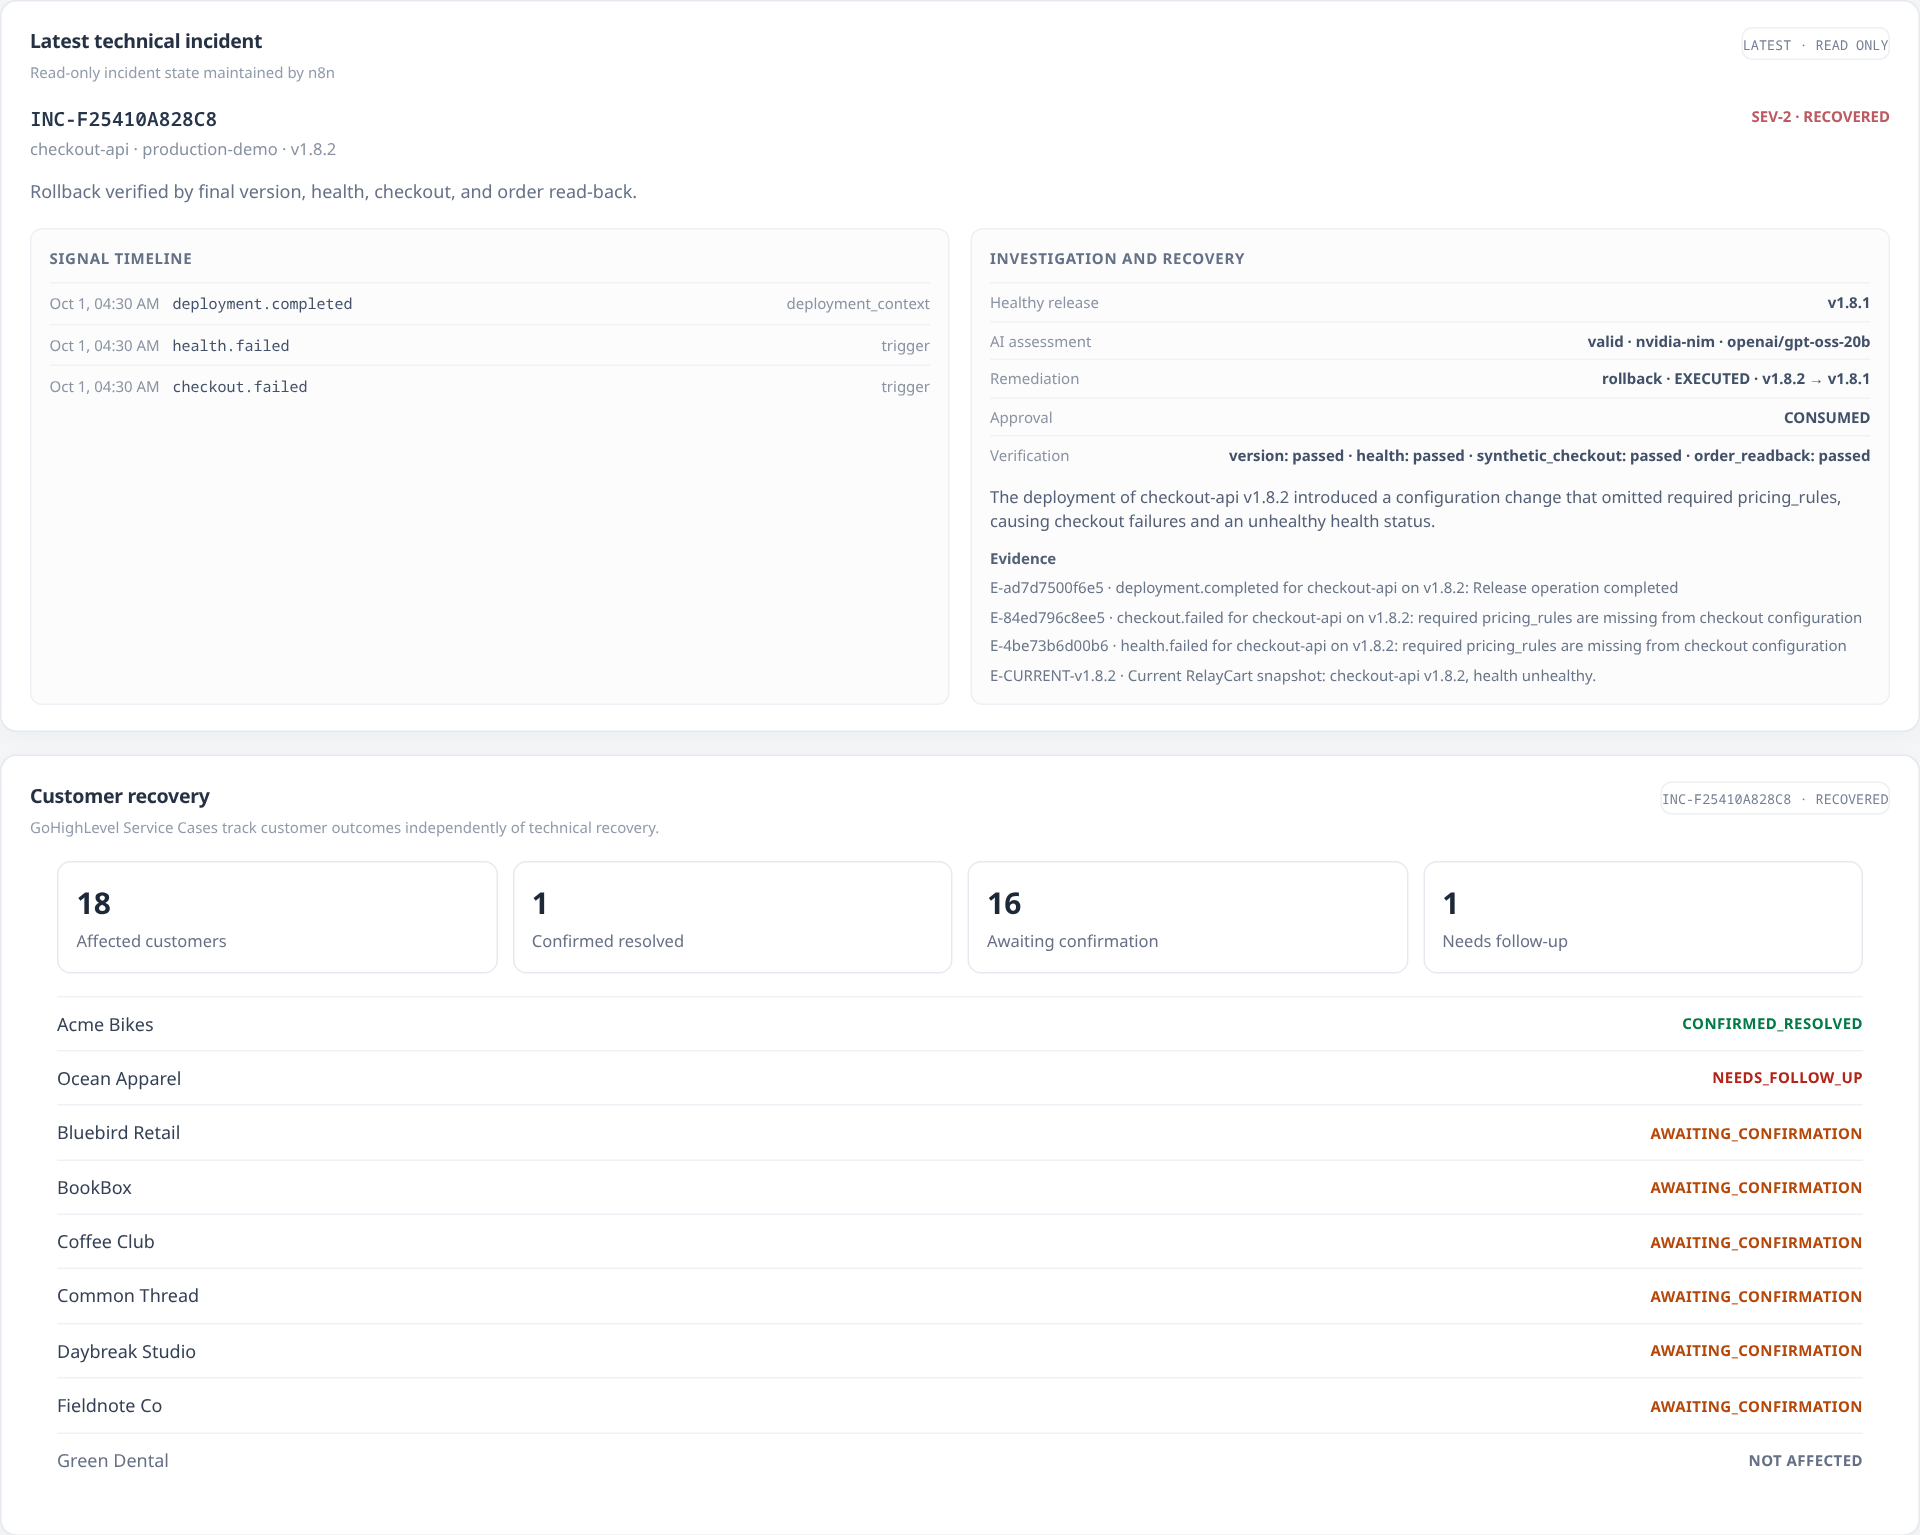
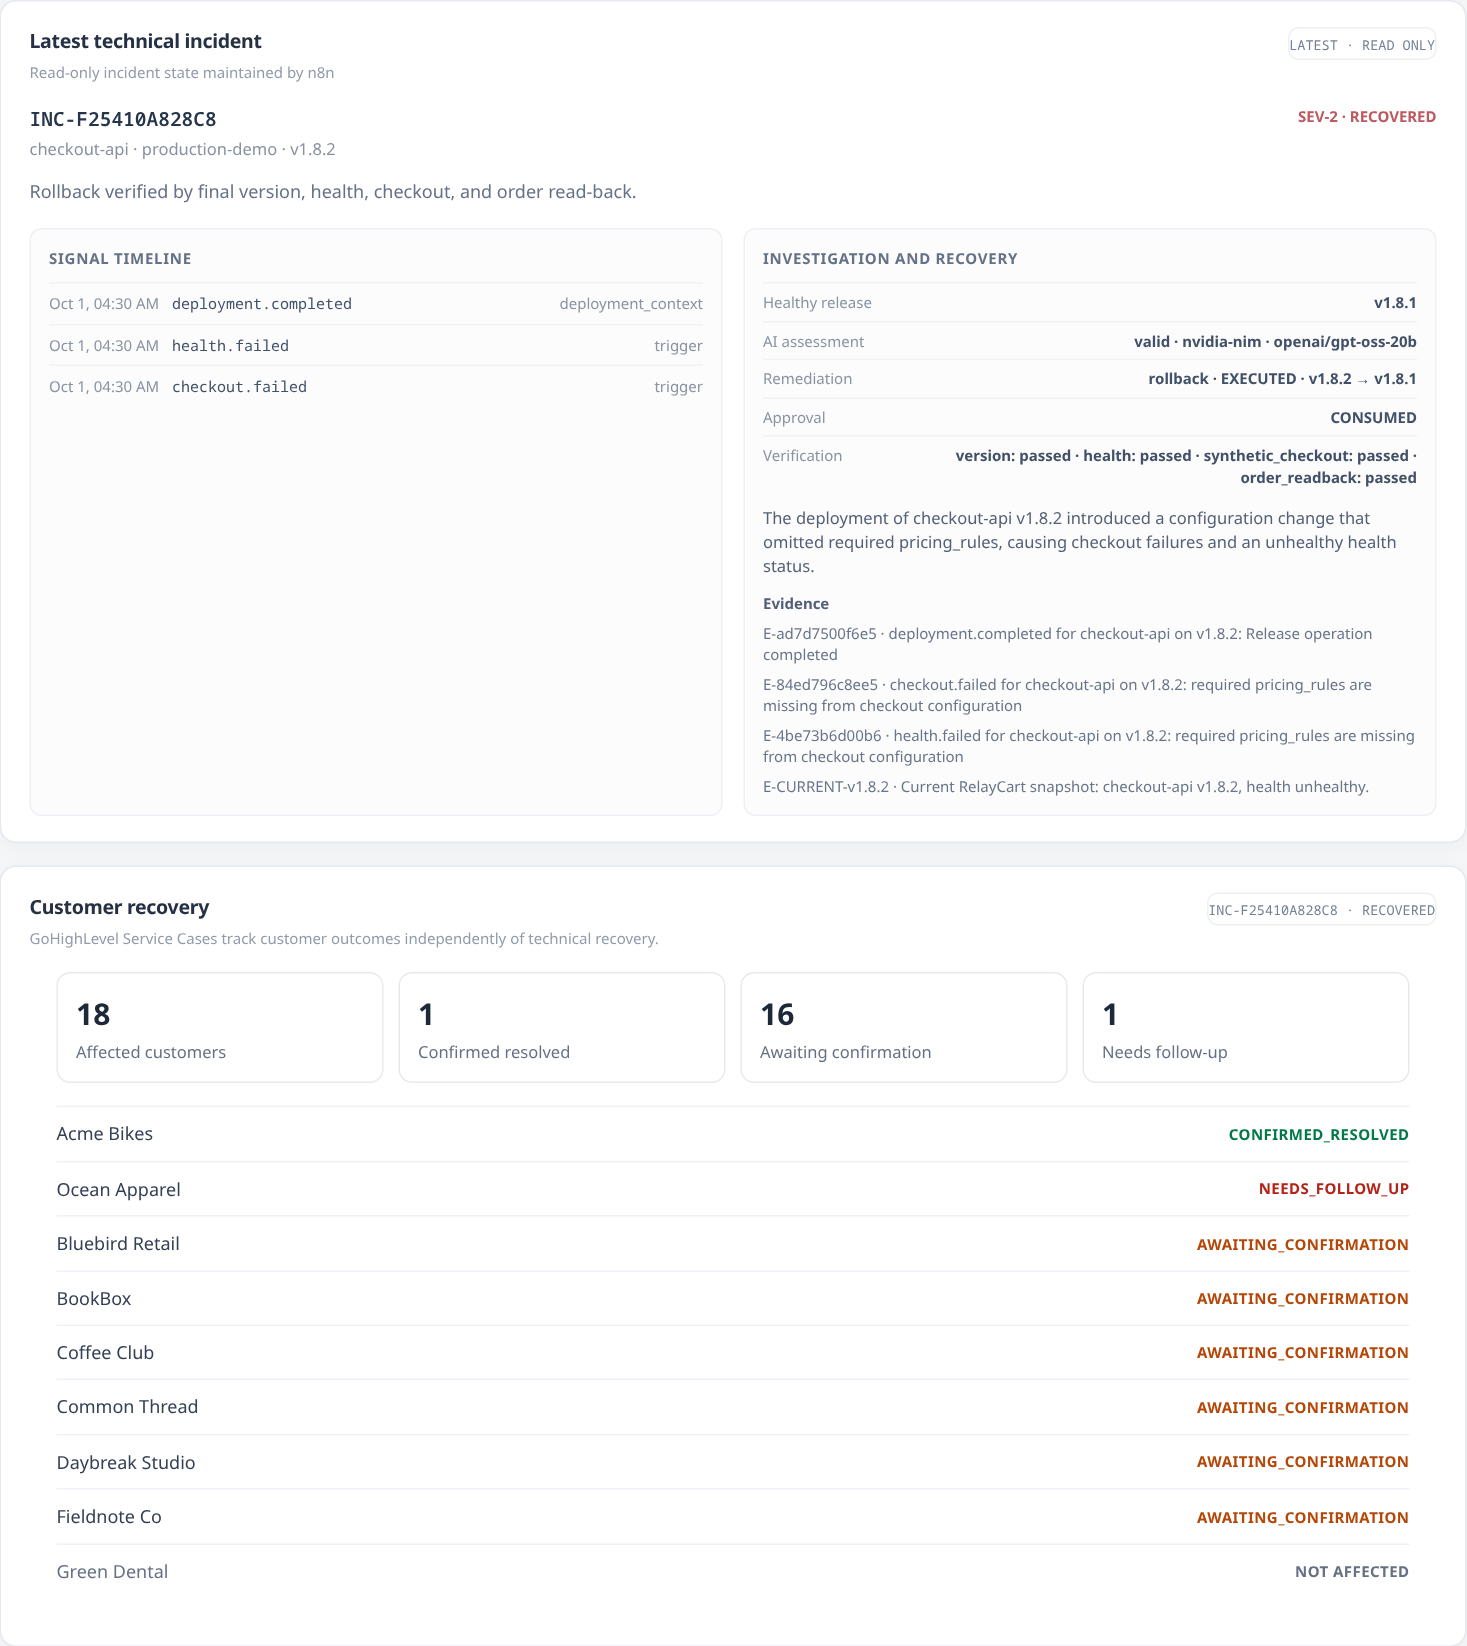
Frame recovery evidence for a readable README preview

diff --git a/scripts/capture-portfolio.py b/scripts/capture-portfolio.py
@@ -42,7 +42,7 @@ def main():
             fit.click()
             page.wait_for_timeout(1500)
             page.screenshot(path=str(OUT / filename))
-        page.set_viewport_size({'width':1600, 'height':1100})
+        page.set_viewport_size({'width':1280, 'height':1100})
         page.goto('http://127.0.0.1:8001')
         page.locator('#customer-recovery-panel').wait_for()
         page.wait_for_function("document.querySelector('#customer-recovery-panel').innerText.includes('CONFIRMED_RESOLVED')")
